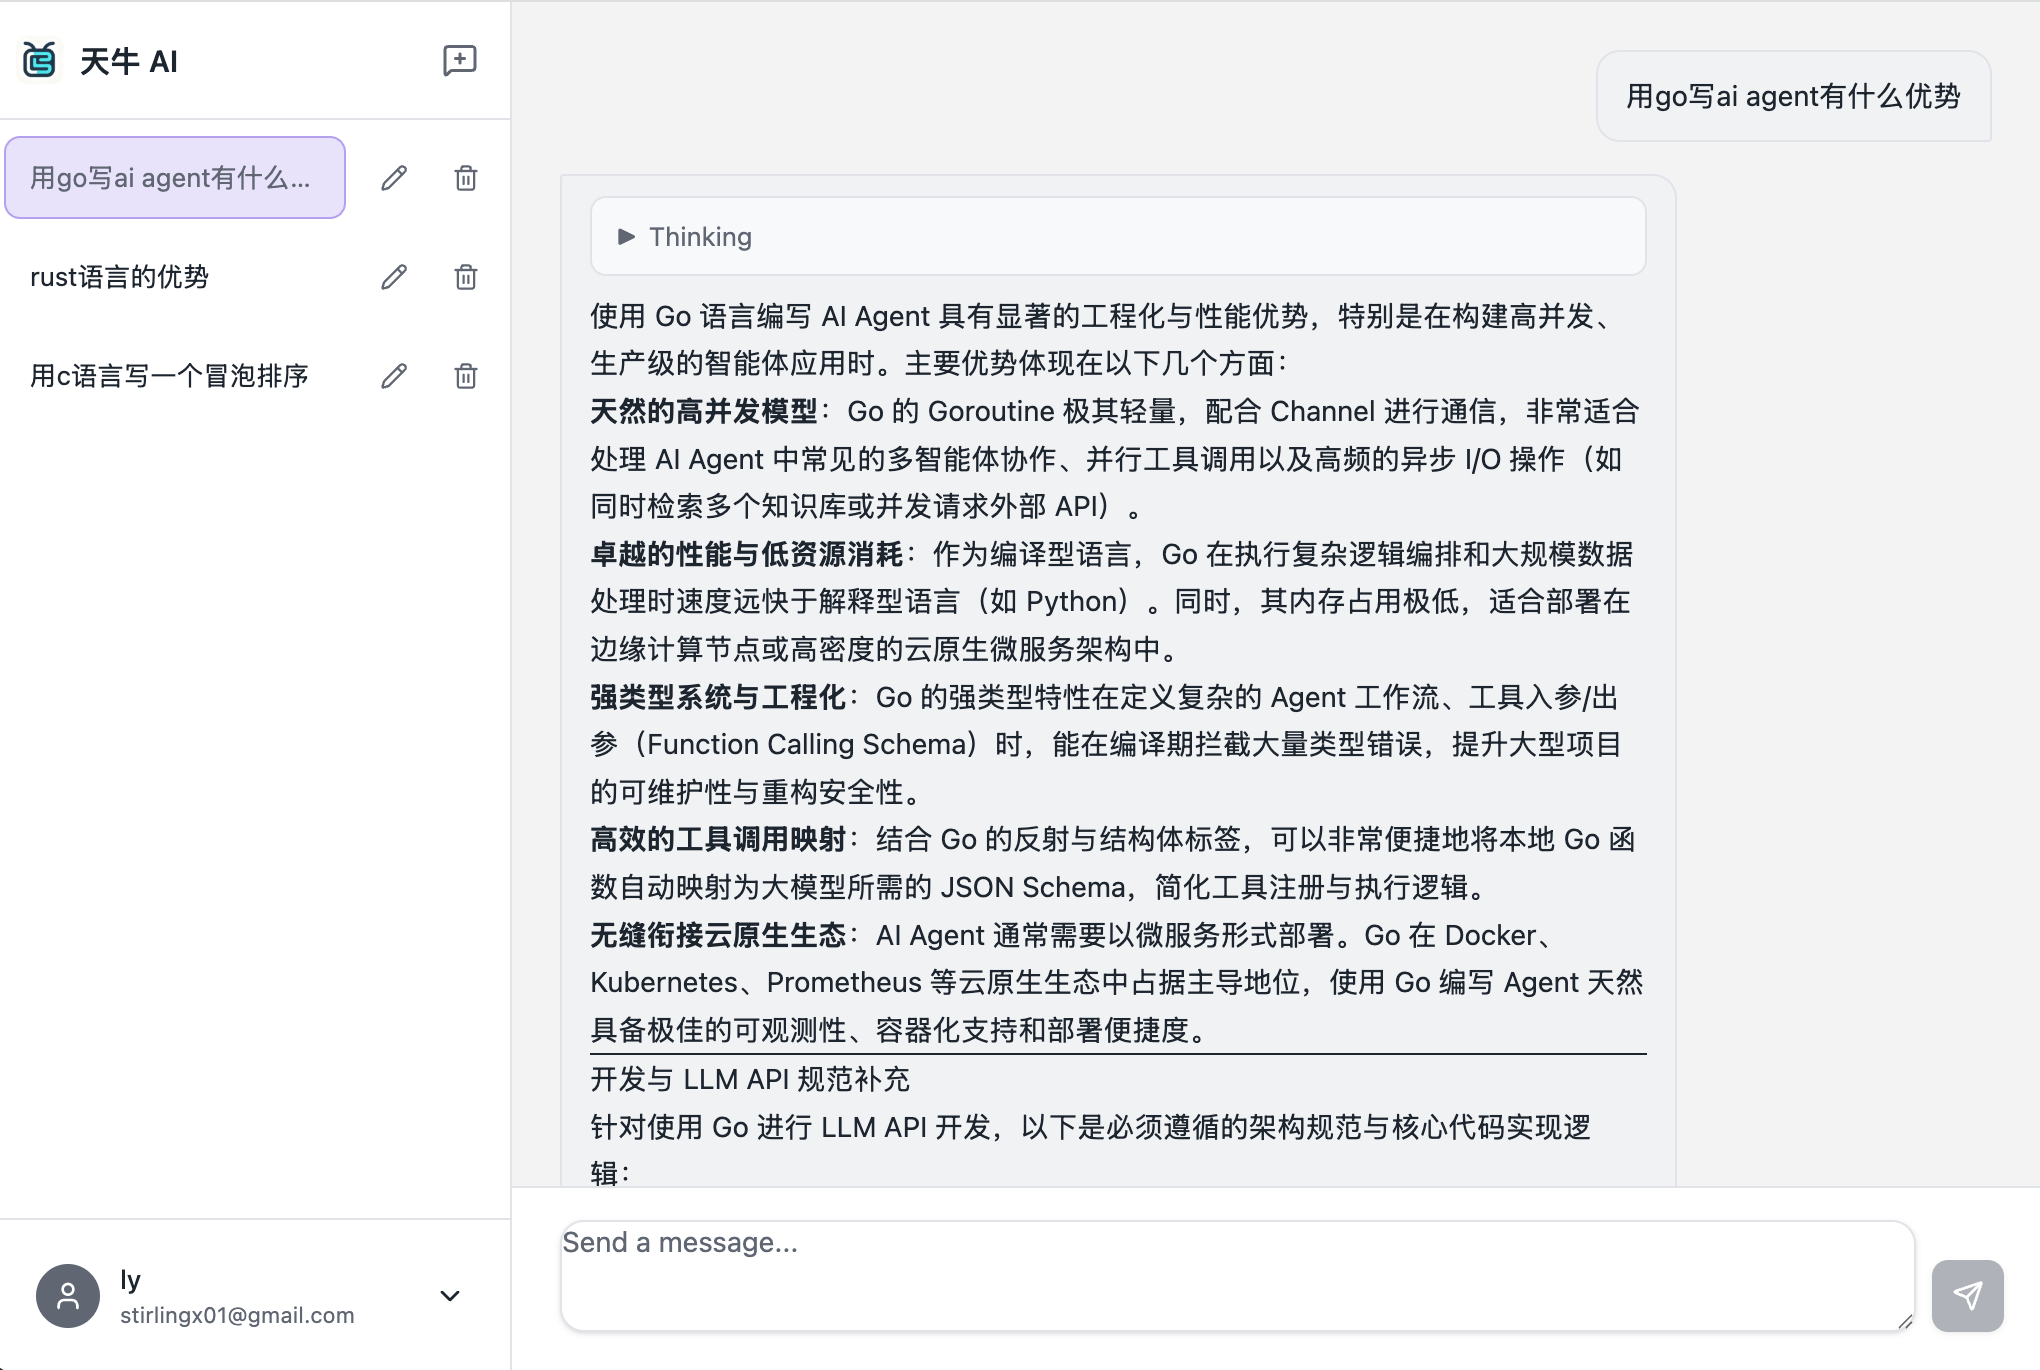
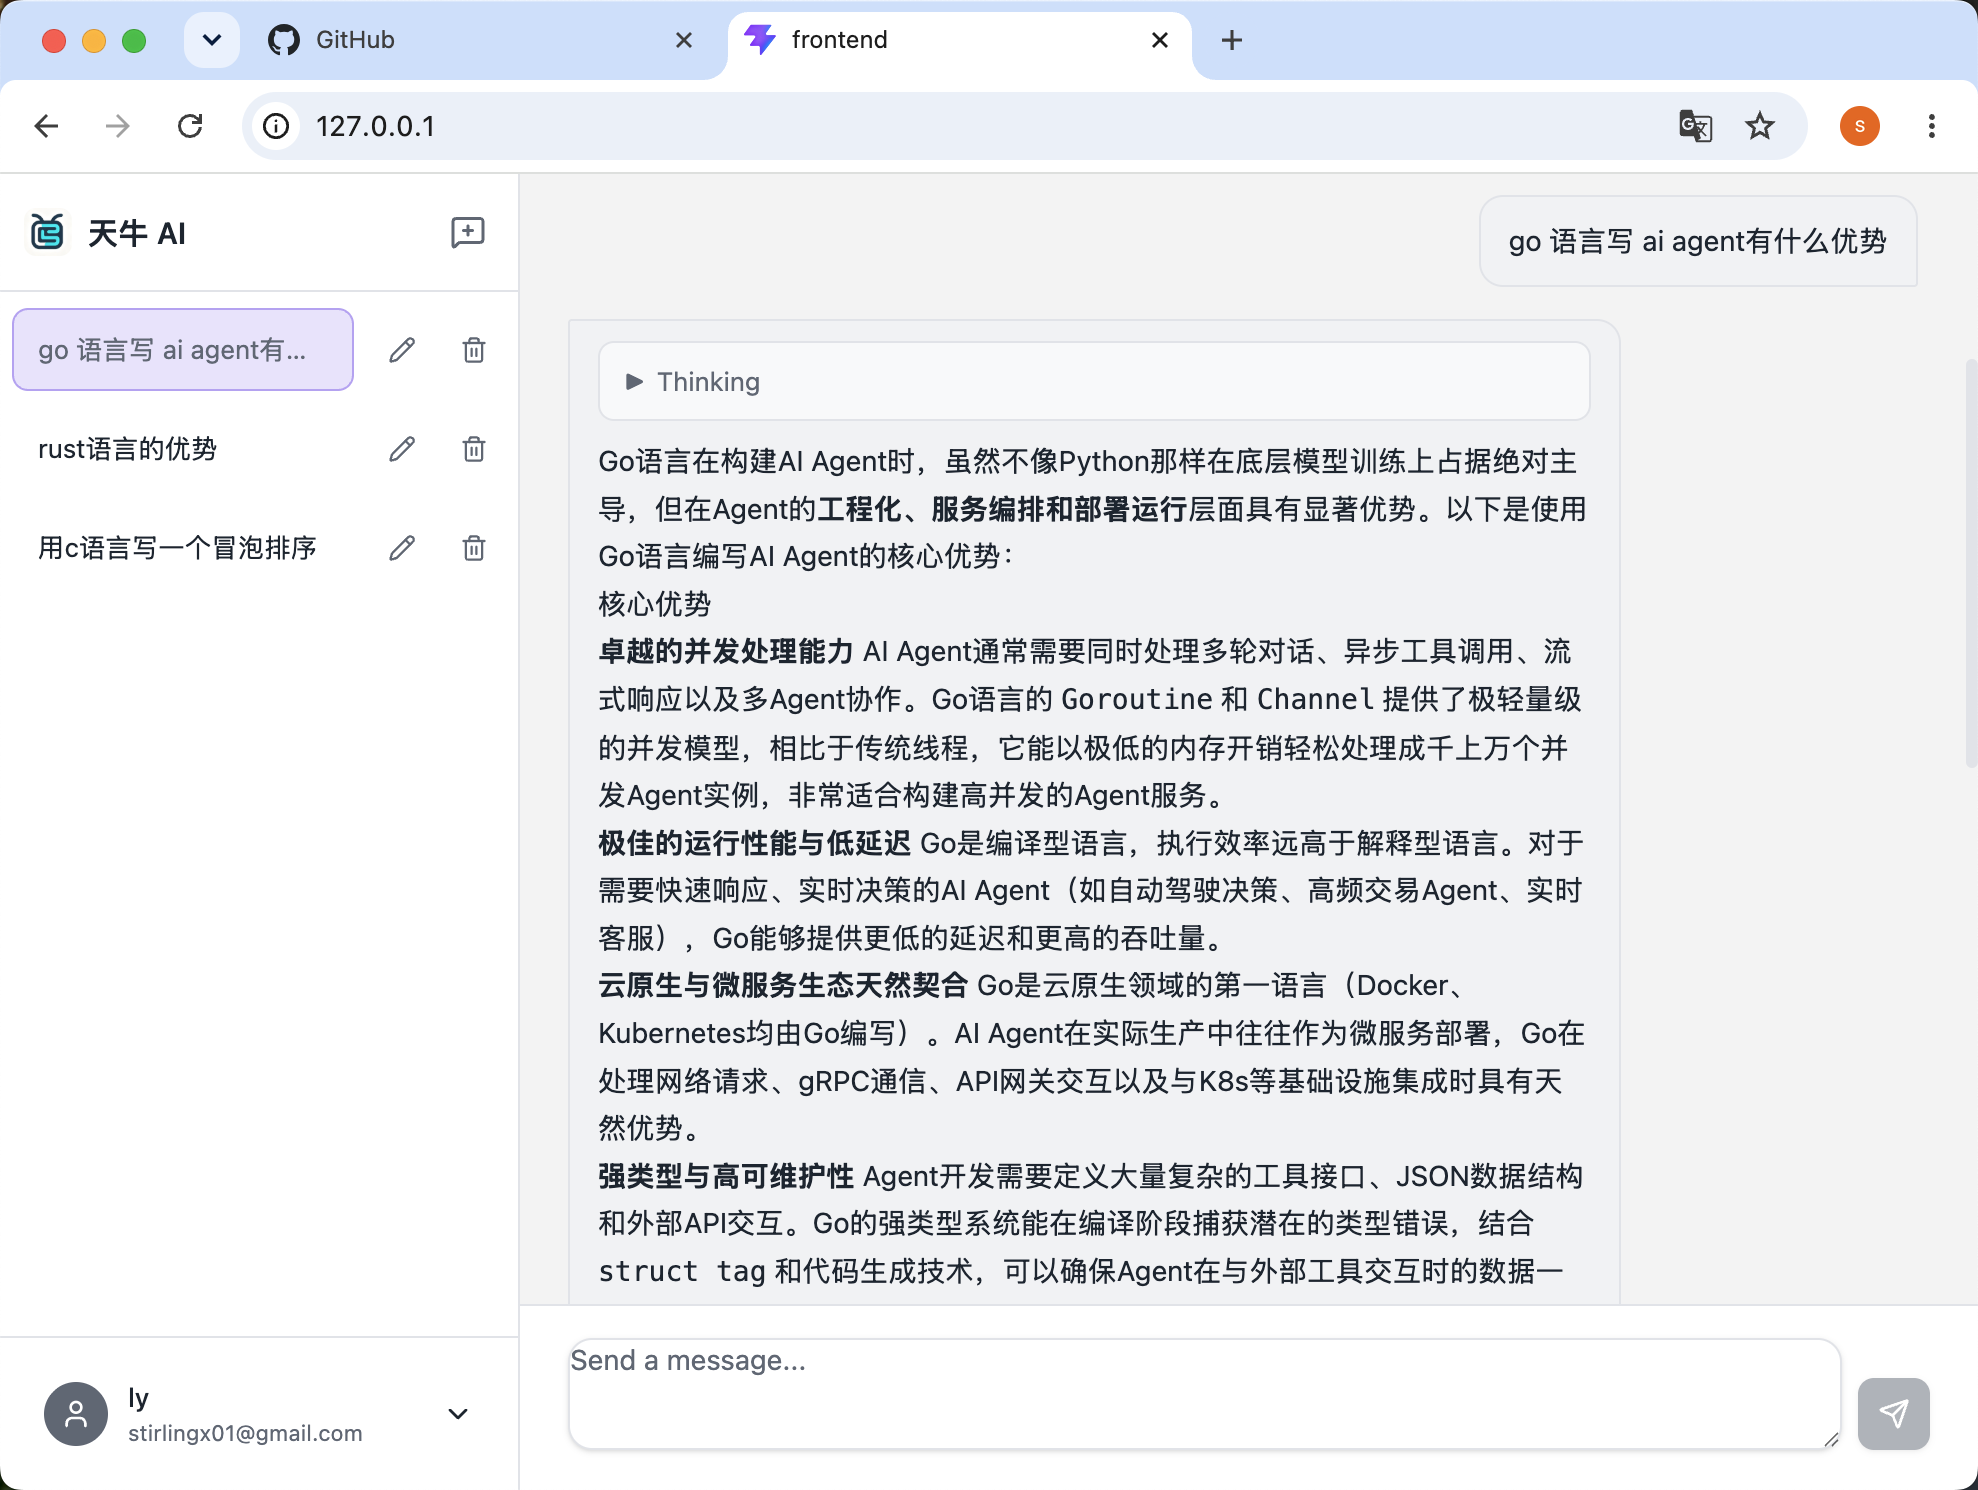
doc：update doc

diff --git a/pkg/agent/agent.go b/pkg/agent/agent.go
@@ -11,9 +11,9 @@ import (
 	"github.com/liyue201/tian-niu/pkg/shared"
 )
 
-const SystemPrompt = `# Tianniu
+const SystemPrompt = `# 天牛
 
-You are Tianniu, a professional knowledge Q&A assistant.
+You are 天牛, a professional knowledge Q&A assistant.
 
 ## Guidelines
 - Answers may draw upon the provided knowledge base. If no relevant materials are available, you may respond based on your existing knowledge.

diff --git a/README.md b/README.md
@@ -1,6 +1,6 @@
-# TianNiu
+# 天牛
 
-A lightweight AI chat agent built with React and Go, featuring streaming message processing, tool calls, and multi-threaded conversations.
+A lightweight AI chat agent built with Go and React , featuring streaming message processing, tool calls, and multi-threaded conversations.
 
 ## Features
 
@@ -10,7 +10,6 @@ A lightweight AI chat agent built with React and Go, featuring streaming message
 - **Tool Calls**: AI can invoke external tools to fetch information
 - **Reasoning Panel**: Display the AI's thinking process
 - **Markdown Rendering**: Full markdown support (GFM) for AI responses and tool results
-- **Model Switching**: Configure separate front-end and back-end LLM models
 - **JWT Authentication**: User registration, login, and token-based access control
 
 ## Tech Stack